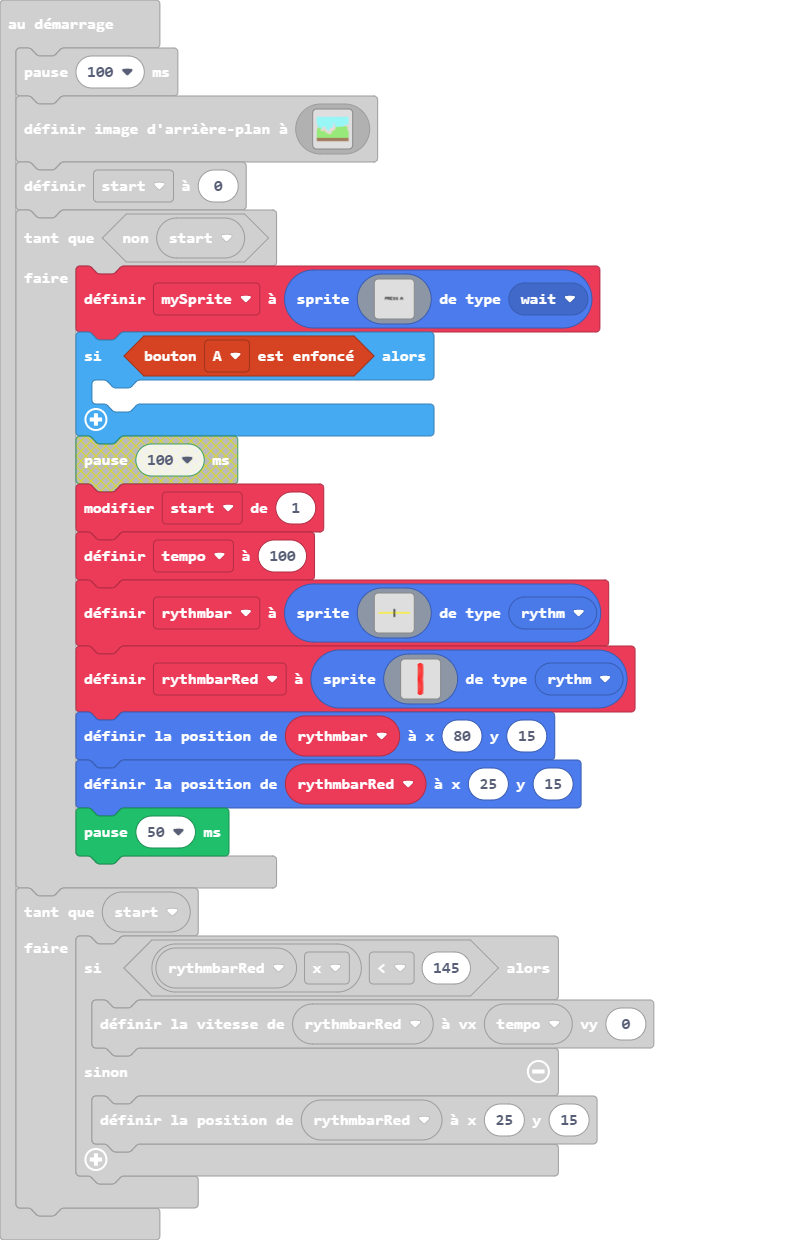
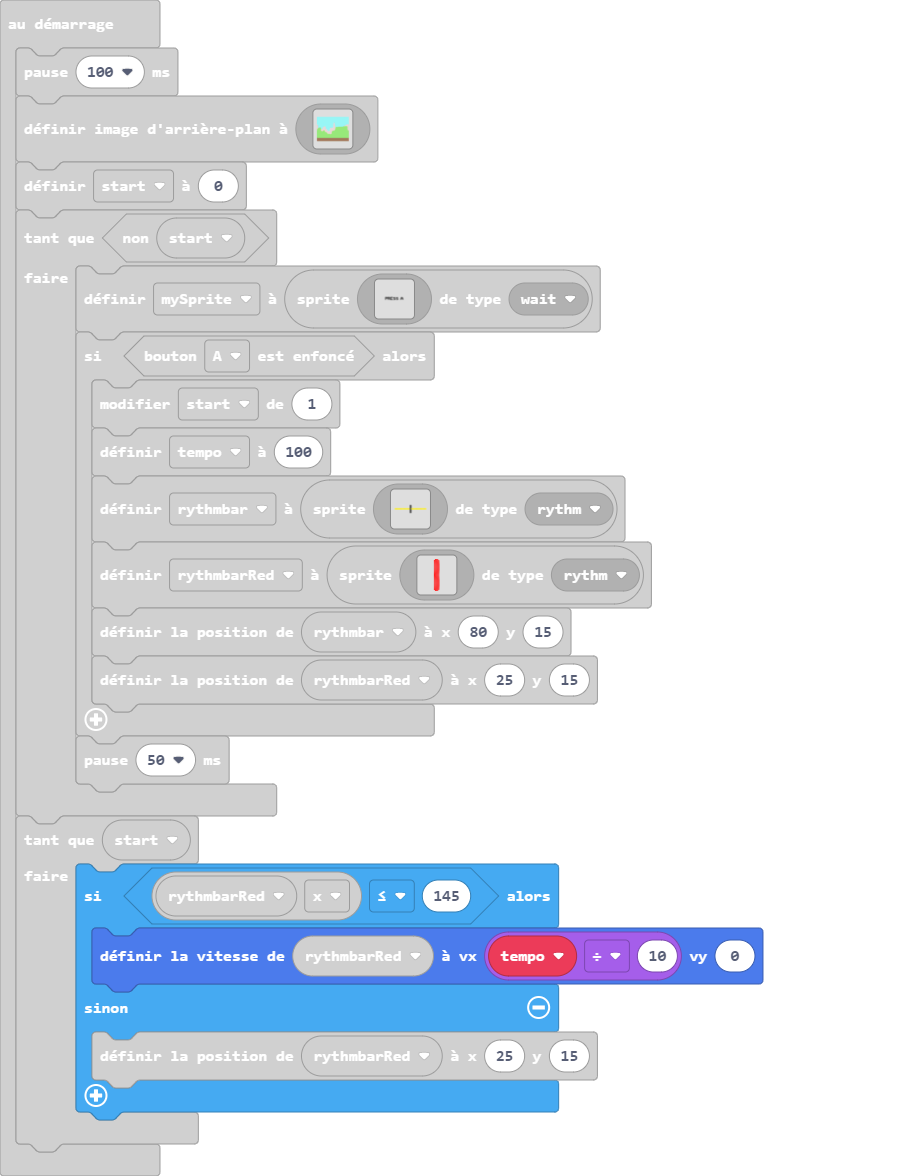
Mise à jour main.blocks, main.ts

diff --git a/main.ts b/main.ts
@@ -143,8 +143,8 @@ while (!(start)) {
     pause(50)
 }
 while (start) {
-    if (rythmbarRed.x < 145) {
-        rythmbarRed.setVelocity(tempo, 0)
+    if (rythmbarRed.x <= 145) {
+        rythmbarRed.setVelocity(tempo / 10, 0)
     } else {
         rythmbarRed.setPosition(25, 15)
     }
